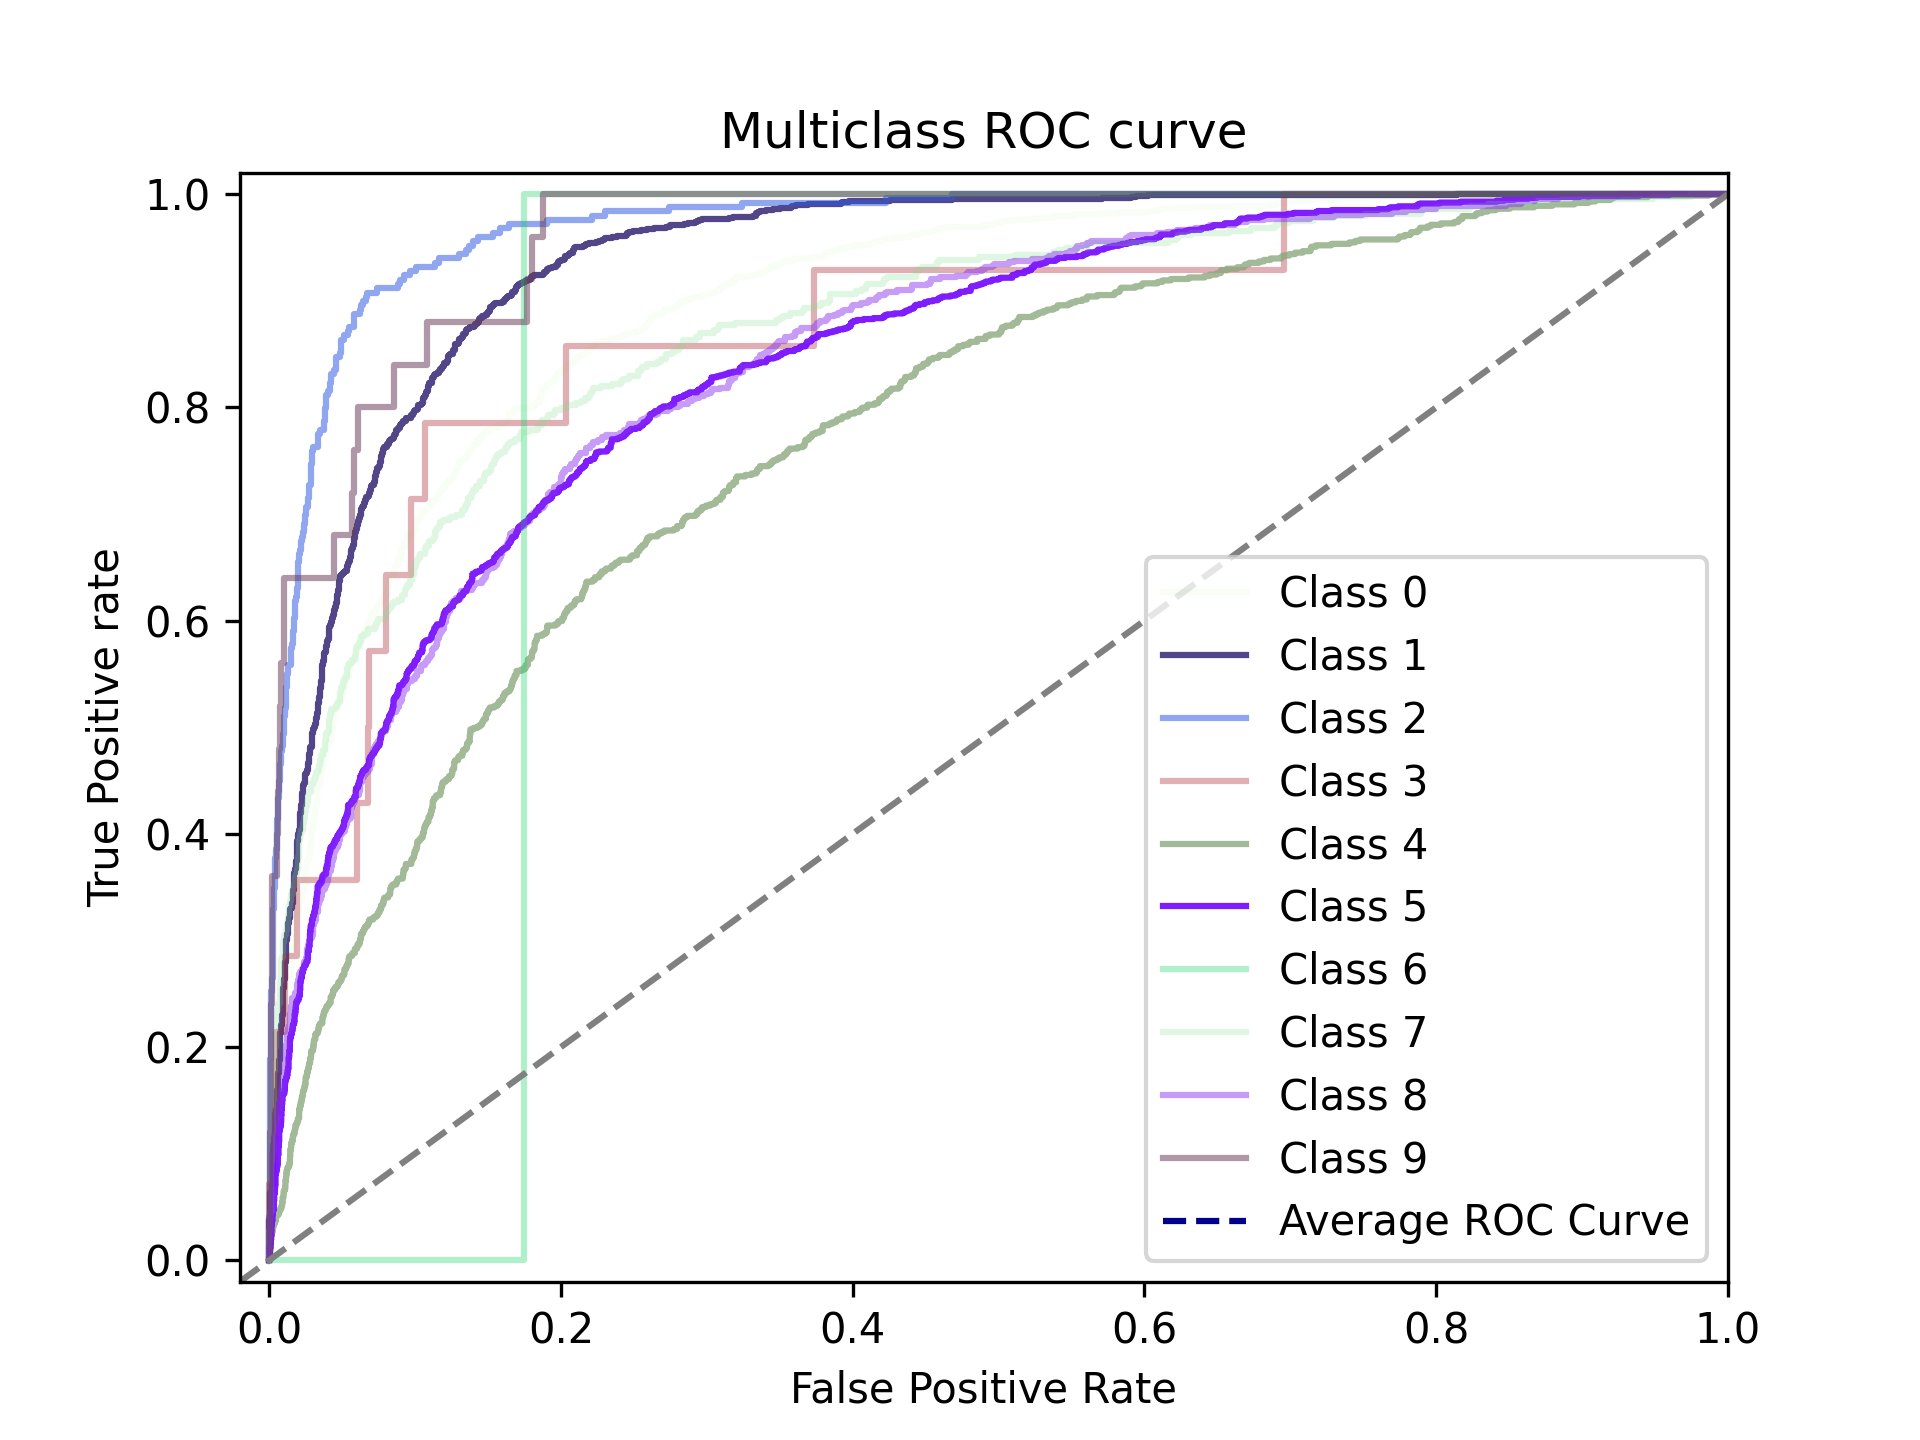
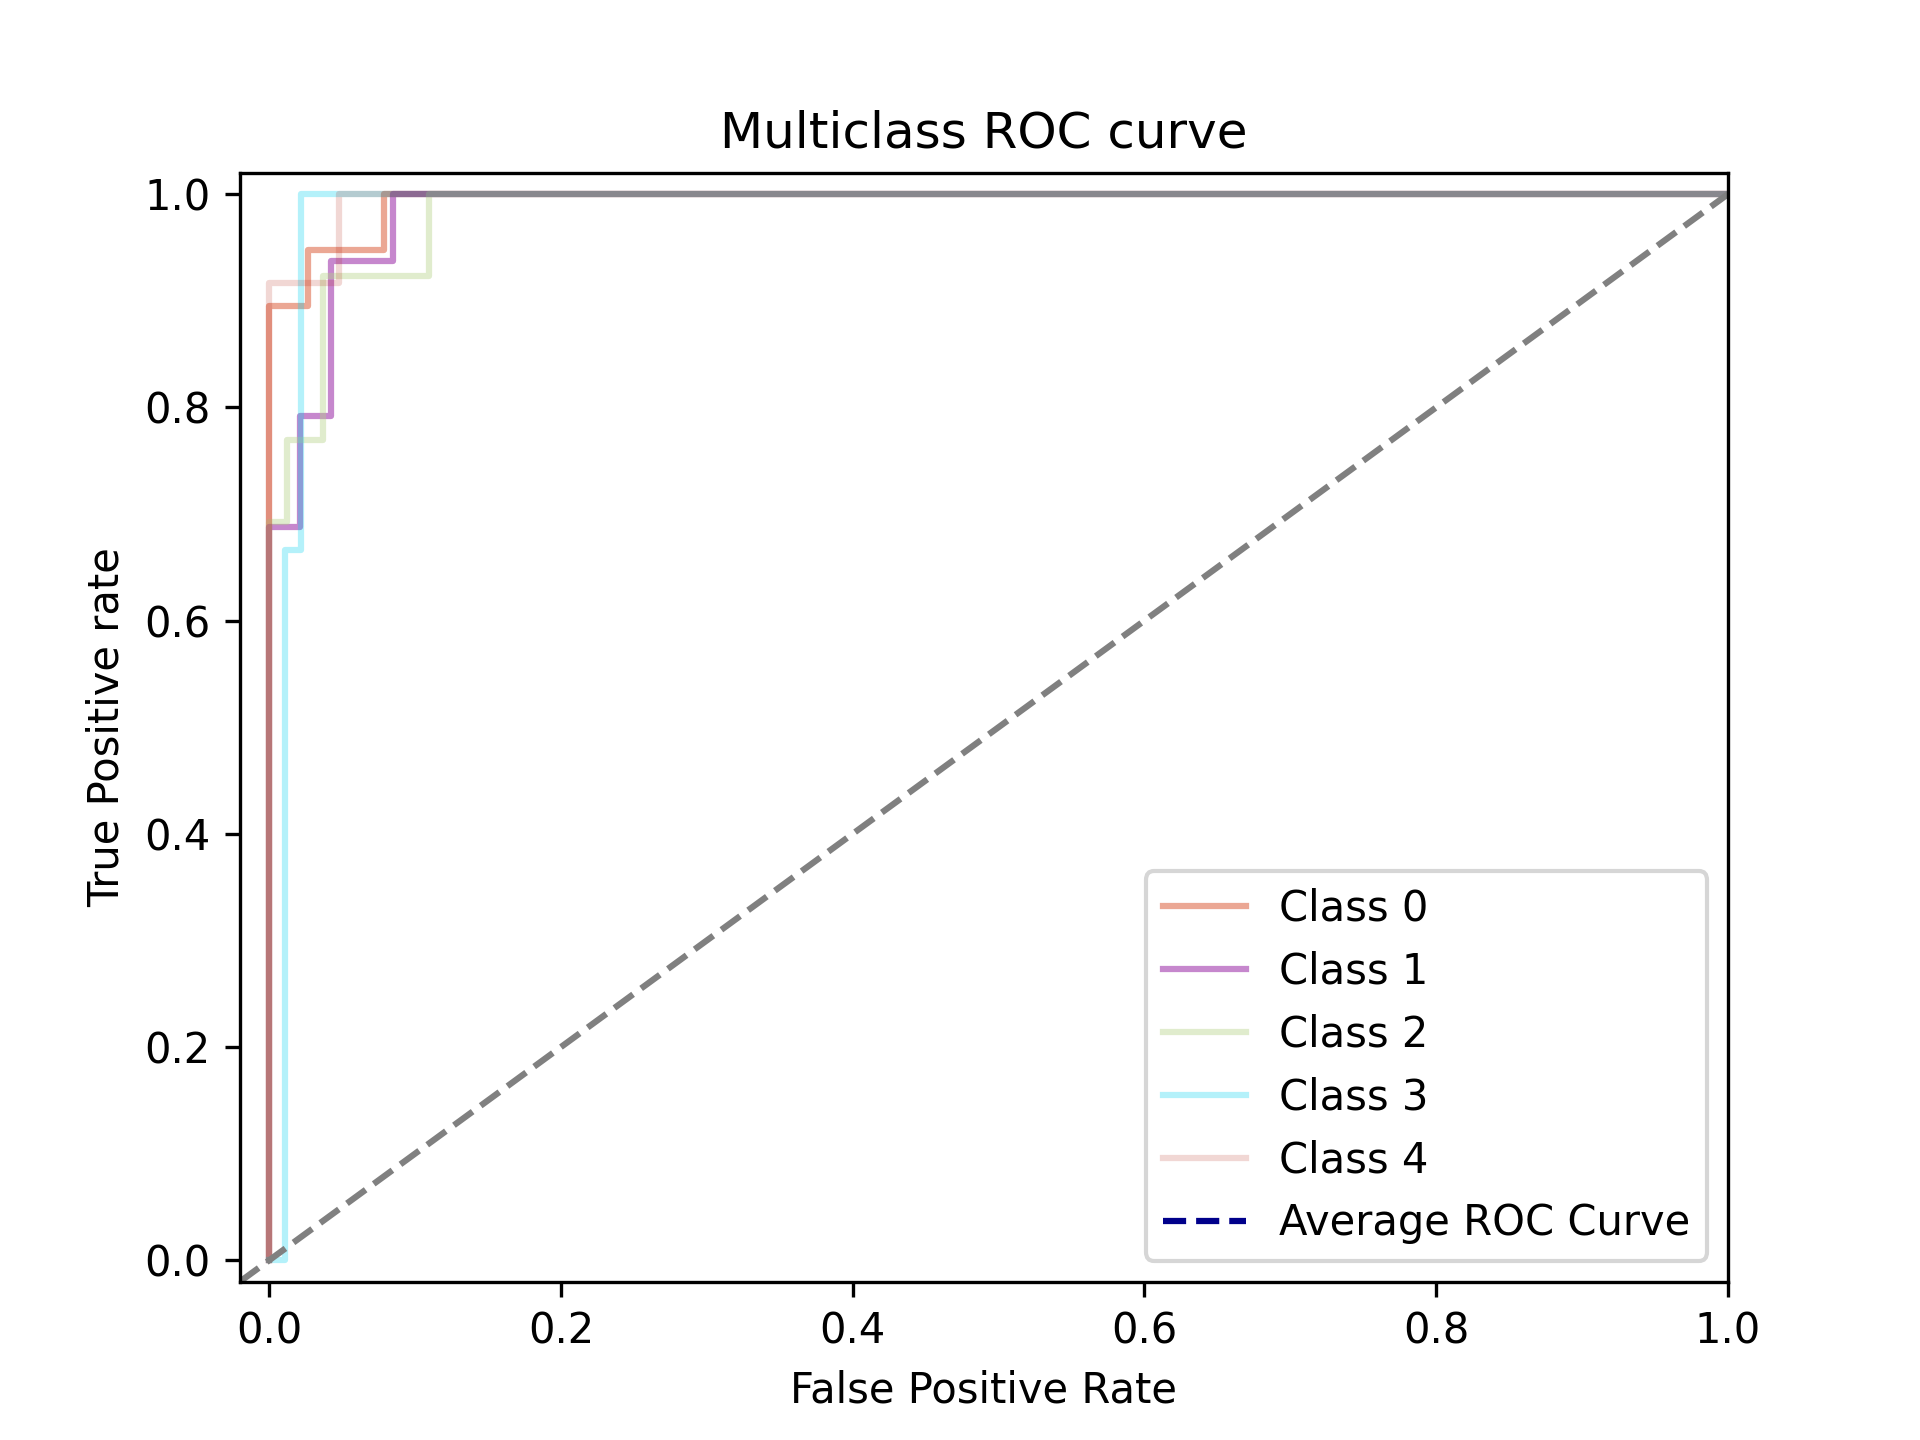
Added hierarhical classifier

diff --git a/main_ai.py b/main_ai.py
@@ -8,6 +8,8 @@ import service.db_manager as db
 import service.plot_builder as plot
 import service.train_service as ts
 import service.data_service as ds
+import service.evaluation_service as eval
+import service.classifier_service as classifier
 from segmentation import custom_processor as cp
 import cv2
 
@@ -18,7 +20,7 @@ ts.configure_gpu()
 # Path for the initial image to start the algorithm on
 # This image is for example a picture took with a personal telescope or obtain via the internet to be analyzed
 images_parent_path = "../images/deepsky/"
-image_name = 'andromeda'
+image_name = 'smallest_jswt_2'
 
 galaxy_zoo_images_path = "../resources/galaxyzoo2/images_gz2/images/"
 nebulae_images_path = "../resources/nebulae/images/"
@@ -26,8 +28,8 @@ galaxies_images_path = "../resources/galaxies/"
 stars_images_path = "../resources/stars/"
 
 # Worked with 10k
-images_to_load = 15000
-rotations = 4
+images_to_load = 4000
+rotations = 12
 
 error_threshold = 0.85
 # error_threshold = 0.0016
@@ -36,18 +38,16 @@ total_threads_number = 5
 
 
 def get_class_name(class_number):
-    # if class_number == 0:
-    #     return "Round smooth"
-    # if class_number == 1:
-    #     return "In-between smooth"
-    # if class_number == 2:
-    #     return "Cigar-shaped smooth"
-    # if class_number == 3:
-    #     return "Edge-on"
-    # if class_number == 4:
-    #     return "Spiral"
-    classes = ["E3", "E0", "E7", "Sa", "Sb", "Sc", "SBa", "SBb", "SBc", "Irregular"]
-    return classes[class_number]
+    if class_number == 0:
+        return "Round smooth"
+    if class_number == 1:
+        return "In-between smooth"
+    if class_number == 2:
+        return "Cigar-shaped smooth"
+    if class_number == 3:
+        return "Edge-on"
+    if class_number == 4:
+        return "Spiral"
 
 
 def compare_data():
@@ -61,7 +61,27 @@ def compare_data():
         print("No similarities found on the catalog")
         exit()
 
+    # Load the db files and search for a filename
+    # db.load_dbs()
+    # db.search_file(identified_objects)
+
     plot.display_images(identified_objects, galaxy_zoo_images_path)
+
+    ic.download_segmented_objects(image_name)
+    # il.load_images(galaxy_zoo_images_path, 2000, 0)
+
+    # il.compare_filters("test")
+
+
+def compare_segmentation():
+    # algorithms = ['custom', 'sobel', 'laplace', 'threshold']
+    algorithm = 'custom'
+    # for algorithm in algorithms:
+    _, exec_time = il.compare_segmentation_algorithms(images_parent_path + str(image_name + '.png'), image_name, download_segmented=False, display_images=True, algorithm=algorithm)
+    if exec_time != -1:
+        print("Execution time for algorithm ", algorithm, " is ", exec_time, "s")
+    else:
+        print("For the execution time please call the method with the value of the display_images parameter set to True!")
 
 
 def train_data():
@@ -70,13 +90,26 @@ def train_data():
     galaxy_data = db.get_data(galaxy_image_names)
 
     _, indexed_labels = db.get_labels(galaxy_data)
-    galaxy_images, indexed_labels = ds.remove_class(galaxy_images, indexed_labels, 10)
+    galaxy_images, indexed_labels = ds.remove_class(galaxy_images, indexed_labels, 5)
 
     # Get images rotated by the parameter number of times and the labels multiplied by the same number
     galaxy_images, indexed_labels = il.get_rotations(galaxy_images, indexed_labels, rotations)
     galaxy_images = galaxy_images / 255.0
 
     ts.train(galaxy_images, indexed_labels, galaxy_image_names)
+
+
+def evaluate_single_image(image_name, model_name=None):
+    original_image = il.load_image_matplot(images_parent_path + str(image_name + '.png'))
+    original_image = ip.apply_filters(original_image, gaussian=False)
+    predicted = ts.evaluate_image(original_image, model_name=model_name)
+    print(predicted)
+    print("Predicted: " + str(predicted[0]) + " (" + get_class_name(predicted[0]) + ")")
+
+    # f, axarr = plt.subplots(1)
+    # plt.title("Predicted: " + str(predicted[0]) + " (" + get_class_name(predicted[0]) + ")")
+    # axarr.imshow(original_image, cmap='gray')
+    # plt.show()
 
 
 def evaluate_image(model_name=None):
@@ -108,17 +141,19 @@ def evaluate_data(evaluation_images_number, model_name=None, evaluate=True):
     _, indexed_labels = db.get_labels(galaxy_data)
     galaxy_images, indexed_labels = ds.remove_class(galaxy_images, indexed_labels, 5)
     galaxy_images = galaxy_images / 255.0
-    if evaluate:
-        results = ts.evaluate(galaxy_images, indexed_labels, model_name, manual=True)
-        print("results(predicted, actual): ", results)
-        for i in range(len(results)):
-            title = "Predicted: " + str(results[i][0]) + " (" + get_class_name(results[i][0]) + ")  |  " + " Actual: " + str(results[i][1]) + " (" + get_class_name(results[i][1]) + ")"
-            plot.display_image(galaxy_images[i], title)
-    else:
-        for i in range(len(galaxy_images)):
-            if indexed_labels[i] is None:
-                continue
-            plot.display_image(galaxy_images[i], get_class_name(indexed_labels[i]))
+    eval.stochastic_dominance(galaxy_images, indexed_labels)
+
+    # if evaluate:
+    #     results = ts.evaluate(galaxy_images, indexed_labels, model_name, manual=True)
+    #     print("results(predicted, actual): ", results)
+    #     for i in range(len(results)):
+    #         title = "Predicted: " + str(results[i][0]) + " (" + get_class_name(results[i][0]) + ")  |  " + " Actual: " + str(results[i][1]) + " (" + get_class_name(results[i][1]) + ")"
+    #         plot.display_image(galaxy_images[i], title)
+    # else:
+    #     for i in range(len(galaxy_images)):
+    #         if indexed_labels[i] is None:
+    #             continue
+    #         plot.display_image(galaxy_images[i], get_class_name(indexed_labels[i]))
 
 
 def live_detection():
@@ -147,11 +182,31 @@ def live_detection():
     # cv2.destroyWindow("preview")
 
 
+def cluster_classification(evaluation_images_number):
+    galaxy_images, galaxy_image_names = il.load_images(galaxy_zoo_images_path, evaluation_images_number, 0, random=False)
+    galaxy_images_r, galaxy_image_names_r = il.load_images(galaxy_zoo_images_path, round(evaluation_images_number/5), 0, random=True)
+    galaxy_images = np.concatenate((galaxy_images, galaxy_images_r))
+    galaxy_image_names = np.concatenate((galaxy_image_names, galaxy_image_names_r))
+    galaxy_data = db.get_data(galaxy_image_names)
+
+    _, indexed_labels = db.get_labels(galaxy_data)
+    # galaxy_data = db.remove_non_float(galaxy_data)
+    # galaxy_images, indexed_labels = ds.remove_class(galaxy_images, indexed_labels, 5)
+    classification_data = db.get_classification_data(galaxy_data, True)
+    classification_data, labels = classifier.classify2(classification_data)
+    # print(labels)
+    # print(len(labels))
+    print(indexed_labels)
+    print(len(indexed_labels))
+
+
 if __name__ == '__main__':
     # train_data()
-    # evaluate_image()
-    # evaluate_data(100, None, False)
-    evaluate_data(100, "valid/L_CUSTOM_2_3_64_90240_10ep_96.37acc.h5")
+    # evaluate_image("valid/L_CUSTOM_2_3_64_90240_10ep_96.37acc.h5")
+    # evaluate_single_image("6 - prep", "valid/L_CUSTOM_2_3_64_90240_10ep_96.37acc.h5")
+    # evaluate_single_image("6marc - prep", "L_RESNET_1_0_64_169176_10ep.h5")
+    evaluate_data(5000, "valid/L_CUSTOM_2_3_64_90240_10ep_96.37acc.h5")
+    # cluster_classification(1000)
     # live_detection()
 
     # print(multiprocessing.cpu_count())

diff --git a/service/evaluation_service.py b/service/evaluation_service.py
@@ -1,0 +1,57 @@
+import numpy as np
+import statistics
+
+import service.train_service as ts
+
+
+def stochastic_dominance(galaxy_images, indexed_labels):
+    model_names = ["valid/L_CUSTOM_2_3_64_90240_10ep_96.37acc.h5", "L_CUSTOM_4_1_64_112920_15ep_acc93.h5", "L_RESNET_1_0_64_169176_10ep.h5", "L_MOBILE_1_1_64_169176_20ep.h5", "L_EFFICIENT_1_0_64_60160_10ep.h5", "L_DENSENET_1_2_64_169176_20ep.h5"]
+    number_of_classes = len(set(indexed_labels))
+    final_results = []
+    final_scores = []
+    for model_name in model_names:
+        results, scores = ts.evaluate(galaxy_images, indexed_labels, model_name, manual=True)
+        final_results.append(results)
+        final_scores.append(scores)
+
+    eval_results = []
+    metrics = []
+    # network_score_means = []
+    # network_score_sds = []
+    for network_id in range(len(model_names)):
+        eval_results.append([])
+        score_sum = 0
+        for image_id in range(len(galaxy_images)):
+            expected = final_results[network_id][image_id][0]
+            actual = final_results[network_id][image_id][1]
+            score = final_scores[network_id][image_id].max()
+            score_sum += score
+            eval_results[network_id].append({"expected": expected, "actual": actual, "confidence": score})
+        network_scores = np.array([d['confidence'] for d in eval_results[network_id]])
+        metrics.append({'mean': network_scores.mean(), 'median': np.median(network_scores), 'sd': np.std(network_scores), 'var': np.var(network_scores), 'iqr': np.percentile(network_scores, [25, 50, 75]), 'cv': np.std(network_scores) / np.mean(network_scores) * 100})
+        # network_score_means.append(np.mean(network_scores))
+        # network_score_means.append(np.std(network_scores))
+
+    network_winners = []
+    for image_id in range(len(galaxy_images)):
+        print("Image " + str(image_id) + " results:")
+        max_confidence = 0
+        better_network = -1
+        for network_id in range(len(model_names)):
+            network_confidence = eval_results[network_id][image_id]['confidence']
+            print("network " + str(network_id) + " confidence: " + str(network_confidence))
+            if network_confidence > max_confidence and eval_results[network_id][image_id]['actual'] == eval_results[network_id][image_id]['expected']:
+                max_confidence = network_confidence
+                better_network = network_id
+        network_winners.append(better_network)
+        print("Winner network: " + str(better_network))
+
+    network_winners_count = []
+    for network_id in range(len(model_names)):
+        network_winners_count.append(network_winners.count(network_id))
+
+    print("Network winning counts: ", network_winners_count)
+    print("Metrics: ", metrics)
+    # print("Averages: ", network_score_means)
+    # print("Standard deviations: ", network_score_sds)
+    print("Stochastic dominant network: " + str(np.argmax(network_winners_count, axis=-1)))

diff --git a/service/classifier_service.py b/service/classifier_service.py
@@ -1,0 +1,67 @@
+import numpy as np
+import matplotlib.pyplot as plt
+import pandas as pd
+from scipy.cluster.hierarchy import dendrogram, linkage
+from sklearn.cluster import AgglomerativeClustering
+from sklearn.preprocessing import StandardScaler
+from scipy.cluster.hierarchy import fcluster
+
+
+def classify(classification_data):
+    print(classification_data)
+    hierarchical_cluster = AgglomerativeClustering(n_clusters=5, affinity='euclidean', linkage='ward')
+    labels = hierarchical_cluster.fit_predict(classification_data)
+    linkage_data = linkage(classification_data, method='ward', metric='euclidean')
+    print(linkage_data)
+    print(len(linkage_data))
+    dendrogram(linkage_data)
+    plt.show()
+    return labels
+
+
+def classify2(data):
+    scaler = StandardScaler()
+    scaled_data = scaler.fit_transform(data)
+    distance_matrix = linkage(scaled_data, method='ward')
+
+    cluster_labels = fcluster(distance_matrix, 5, criterion='distance')
+    show_dendrogram_plot(distance_matrix)
+
+    # Add cluster labels as a new column to your data
+    # data.insert(len(data), cluster_labels)
+
+    # Analyze and interpret the clusters based on your data
+    if not isinstance(data, pd.DataFrame):
+        data = pd.DataFrame(data)
+
+    data['cluster'] = cluster_labels
+    # for i in range(len(data)):
+    #     data[i]['cluster'] = cluster_labels[i]
+
+    # index = str(len(data[0])-1)
+    print(data)
+    print(cluster_labels)
+    # print(index)
+    print(data.groupby('cluster').describe())
+    # print(data.groupby(len(data)-1))
+    show_data_points_plot(data, cluster_labels)
+    return data, cluster_labels
+
+
+def show_dendrogram_plot(distance_matrix):
+    # Visualize the dendrogram (optional)
+    plt.figure(figsize=(10, 6))
+    dendrogram(distance_matrix)
+    plt.title("Hierarchical Clustering Dendrogram")
+    plt.show()
+
+
+def show_data_points_plot(data, labels):
+    # --- Figure 2: Data Points ---
+    colors = plt.cm.viridis(labels)
+    plt.figure(figsize=(8, 5))
+    plt.scatter(data.index, data.values[:, 0], c=colors, s=50, alpha=0.7)  # Adjust marker size and alpha
+    plt.title("Data Points")
+    plt.xlabel("Sample Index")
+    # plt.ylabel("Feature 1")  # Replace with the actual feature name
+    plt.show()

diff --git a/service/db_manager.py b/service/db_manager.py
@@ -136,19 +136,22 @@ def get_labels(galaxy_data):
 def get_label_value(data):
     # column_offset should be 0, 1 or 2
     # this represents which value to take from the table, 0 is fraction, 1 is weighted fraction, 2 is debiased
-    # column_offset = 0
-    # if float(data[11 + column_offset]) >= 0.469 and float(data[101 + column_offset]) >= 0.5:  # Completely round smooth
-    #     return 0
-    # elif float(data[11 + column_offset]) >= 0.469 and float(data[107 + column_offset]) >= 0.5:  # In between smooth
-    #     return 1
-    # elif float(data[11 + column_offset]) >= 0.469 and float(data[113 + column_offset]) >= 0.5:  # Cigar shaped smooth
-    #     return 2
-    # elif float(data[17 + column_offset]) >= 0.43 and float(data[29 + column_offset]) >= 0.602:  # Edge on
-    #     return 3
-    # elif float(data[17 + column_offset]) >= 0.43 and float(data[35 + column_offset]) >= 0.715 and float(data[53 + column_offset]) >= 0.619:  # Sprial
-    #     return 4
-    # else:
-    #     return 5
+    column_offset = 0
+    if float(data[11 + column_offset]) >= 0.469 and float(data[101 + column_offset]) >= 0.5:  # Completely round smooth
+        return 0
+    elif float(data[11 + column_offset]) >= 0.469 and float(data[107 + column_offset]) >= 0.5:  # In between smooth
+        return 1
+    elif float(data[11 + column_offset]) >= 0.469 and float(data[113 + column_offset]) >= 0.5:  # Cigar shaped smooth
+        return 2
+    elif float(data[17 + column_offset]) >= 0.43 and float(data[29 + column_offset]) >= 0.602:  # Edge on
+        return 3
+    elif float(data[17 + column_offset]) >= 0.43 and float(data[35 + column_offset]) >= 0.715 and float(data[53 + column_offset]) >= 0.619:  # Sprial
+        return 4
+    else:
+        return 5
+
+
+def get_labels_10_class(data):
     if data[6].startswith('Ei'):
         return 0
     elif data[6].startswith('Er'):
